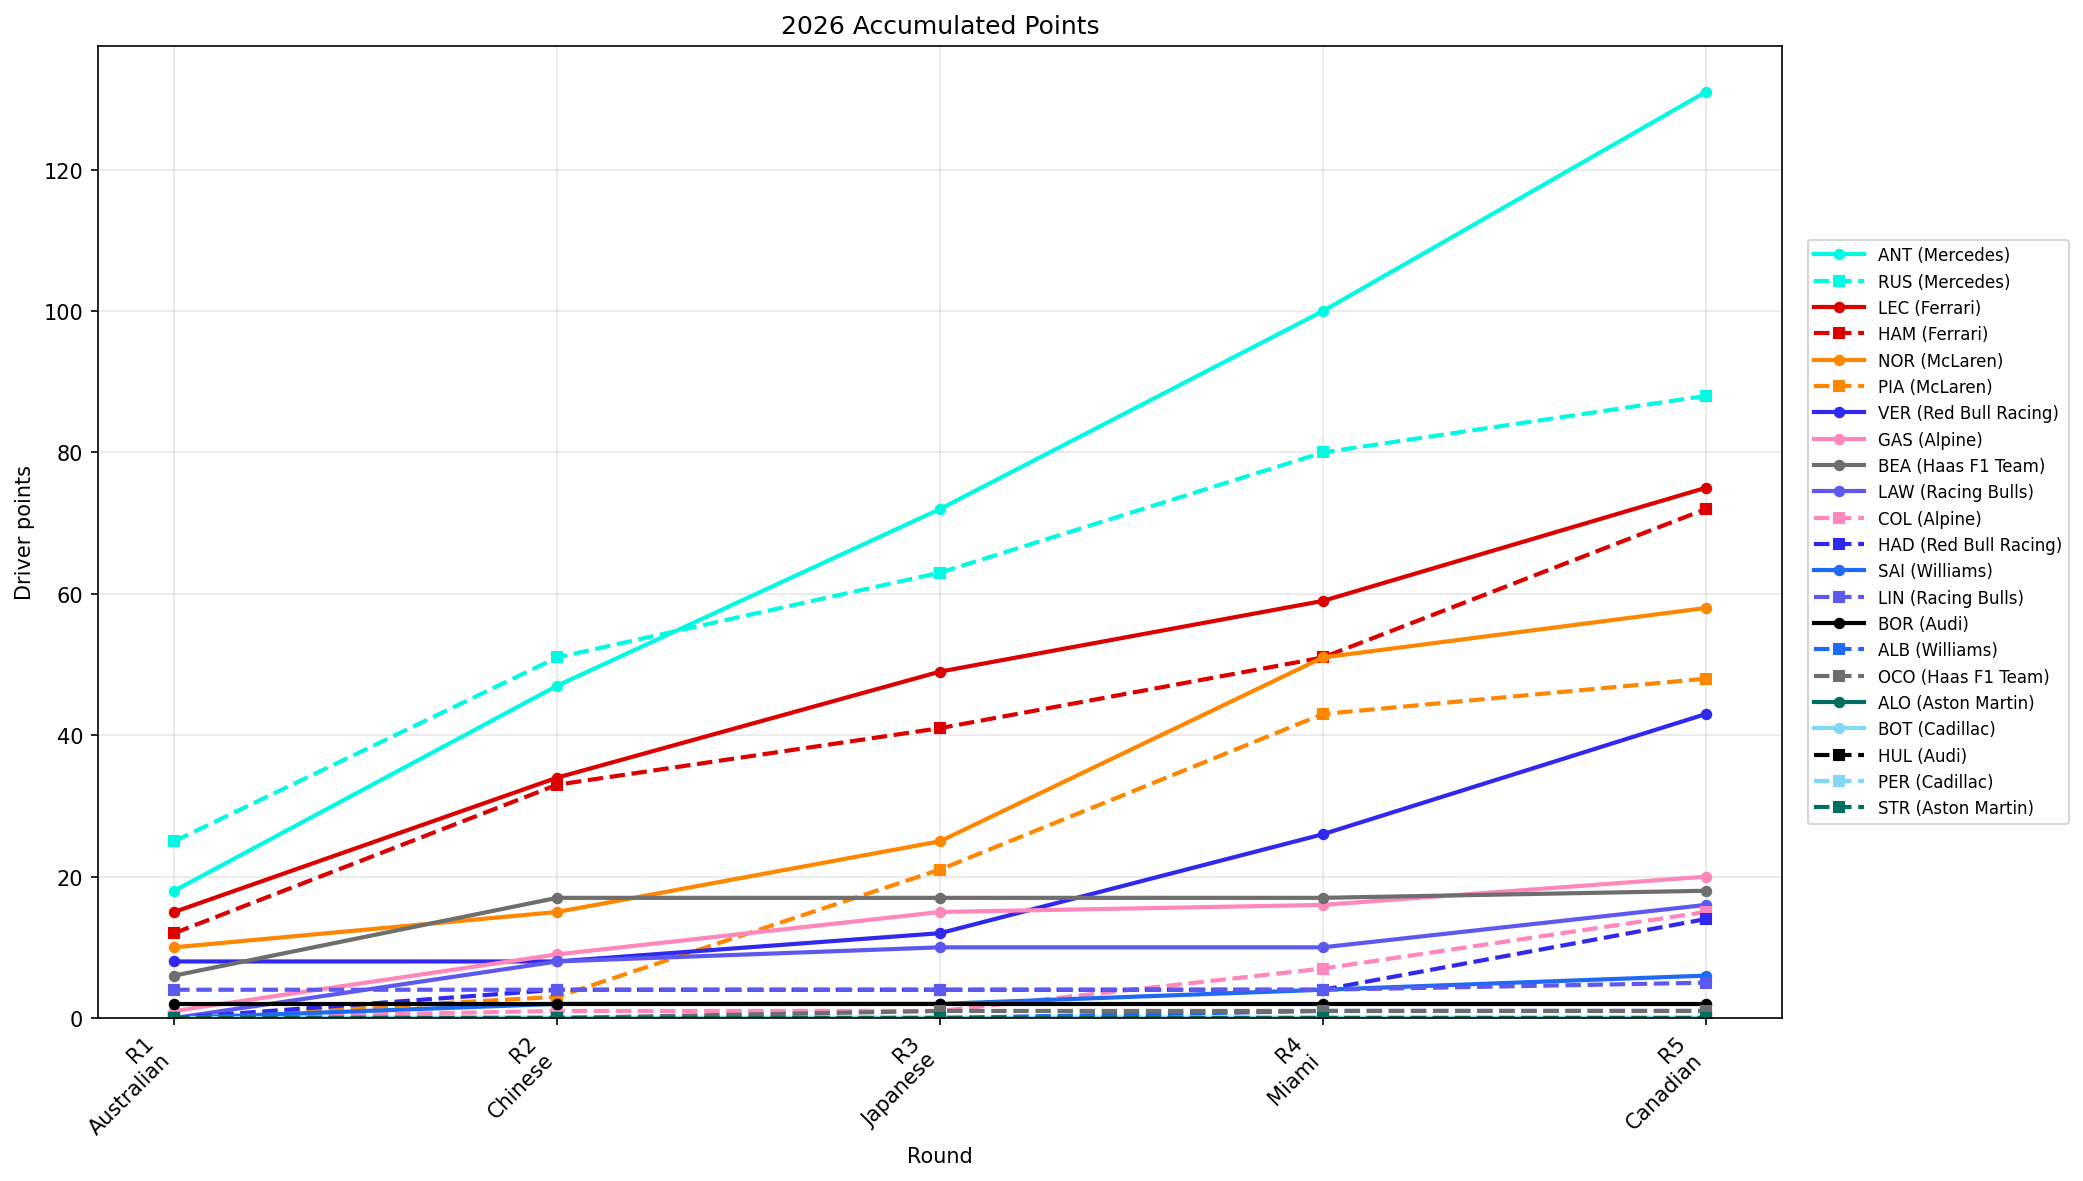
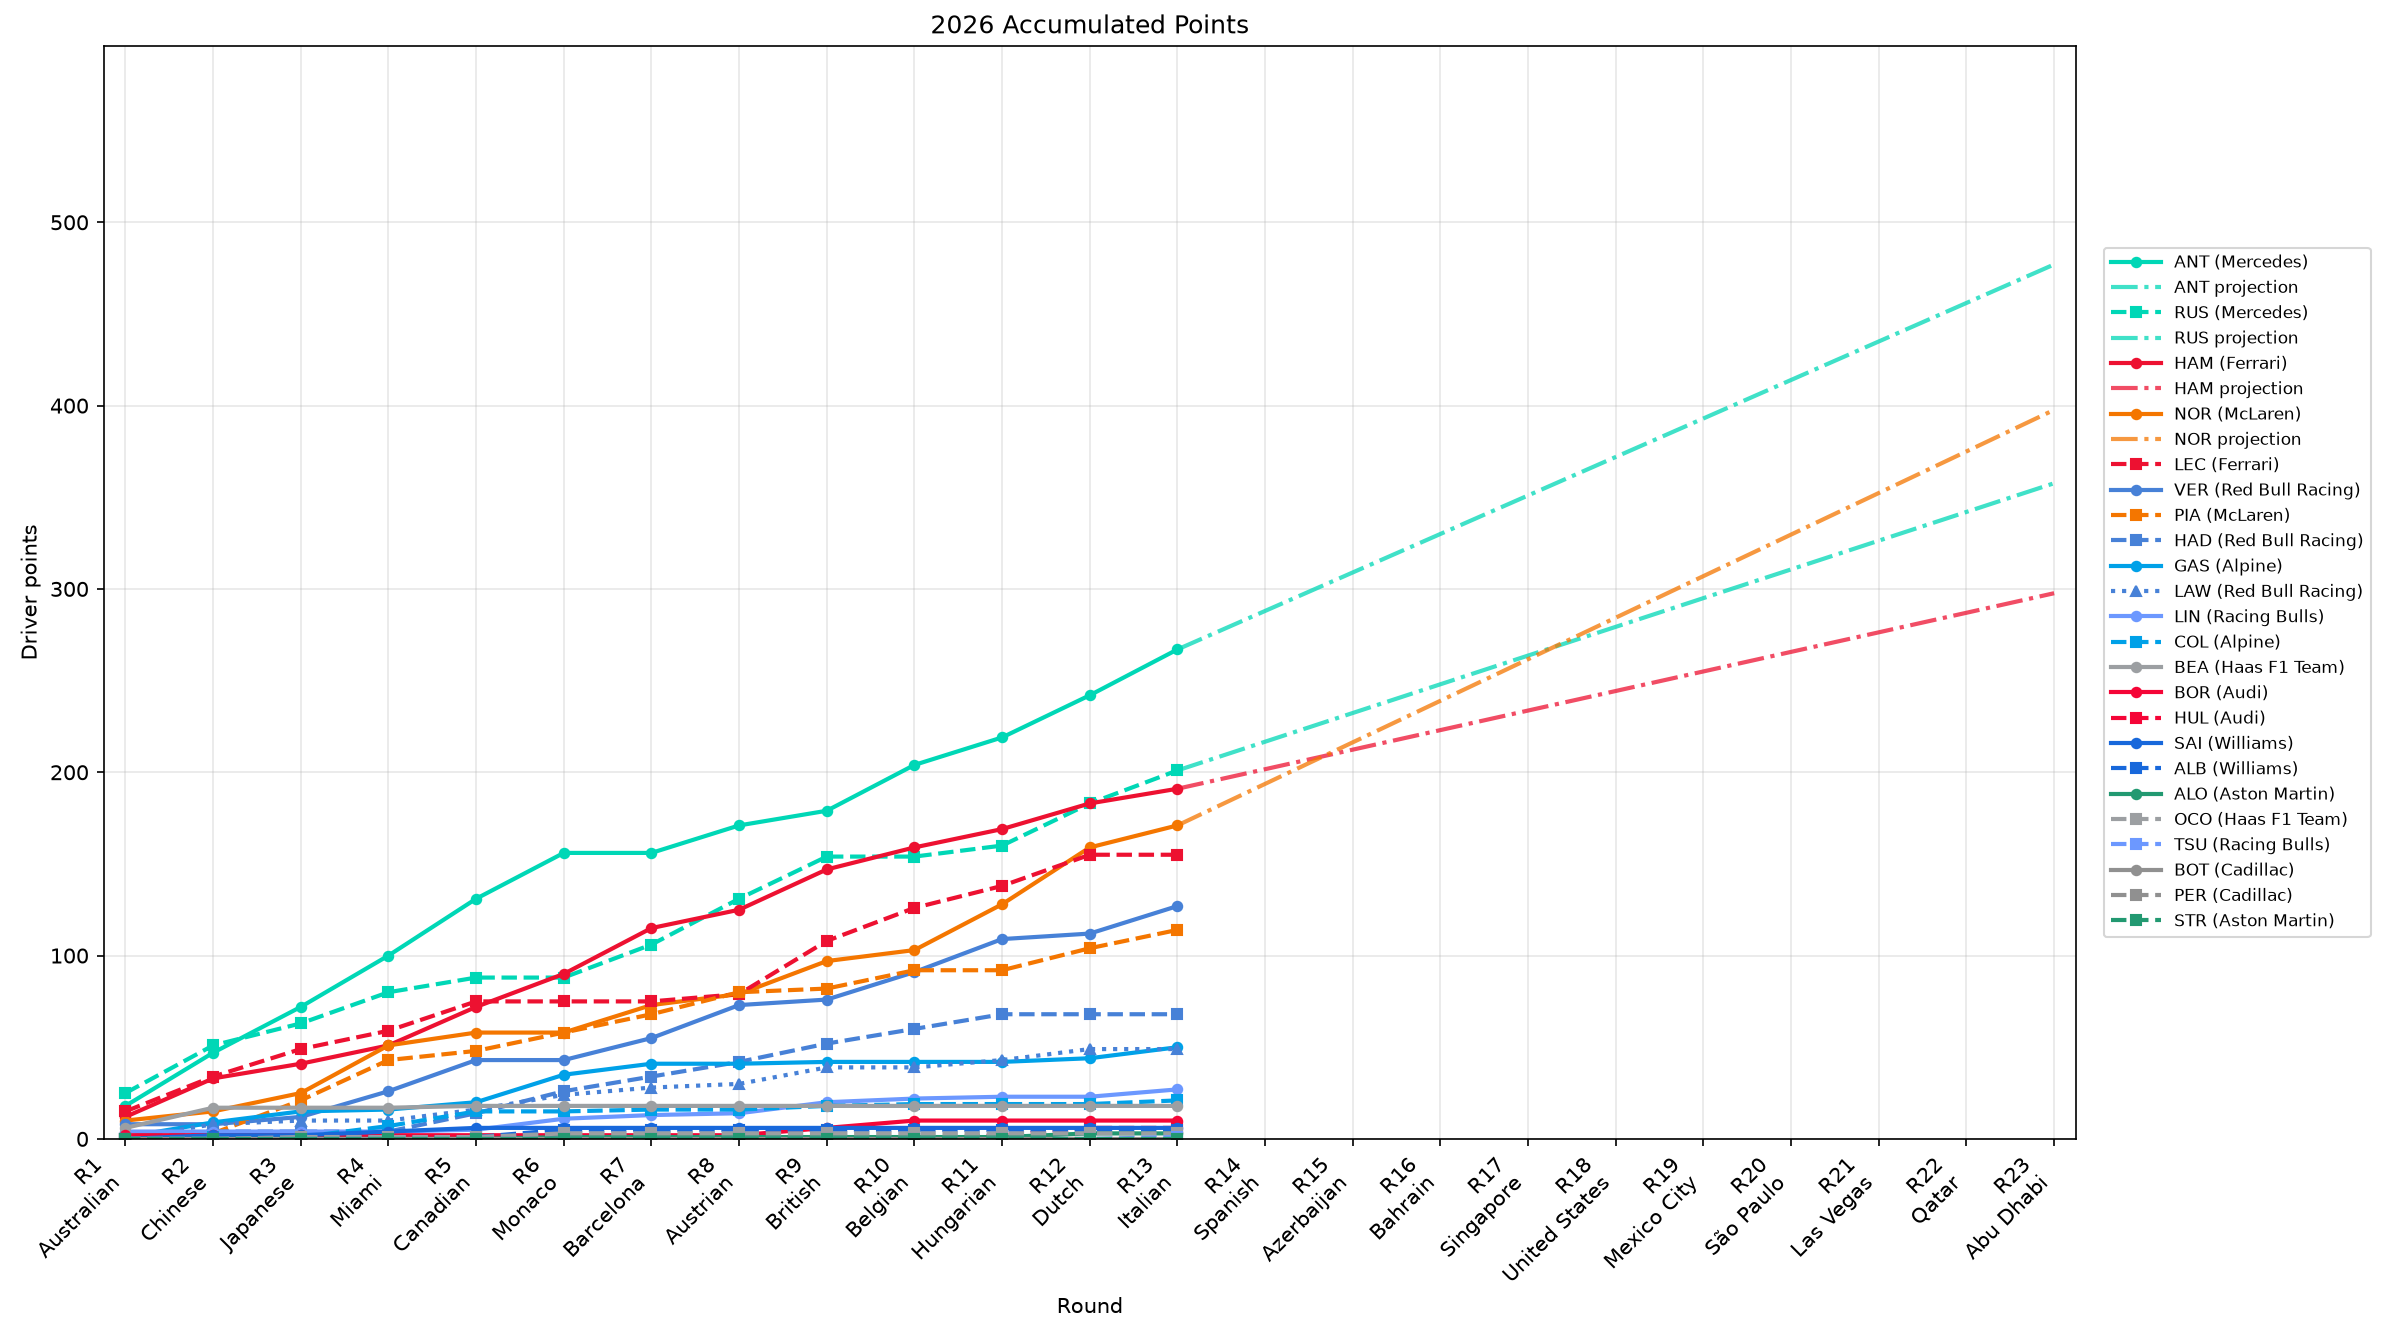
Update 2026 standings through R13

diff --git a/README.md b/README.md
@@ -5,11 +5,13 @@ Formula 1 standings analysis and plotting tools built on FastF1.
 ## Results
 
 The package turns public event results into accumulated driver and constructor
-championship progression, with optional Sprint inclusion and CSV exports.
+championship progression, with optional Sprint inclusion and CSV exports. The
+published examples contain actual 2026 results through R13; dash-dot extensions
+are illustrative projections based on recent rounds.
 
 <p>
-  <img src="docs/assets/points_progression_2026_drivers.png" alt="2026 accumulated driver points progression" width="48%">
-  <img src="docs/assets/points_progression_2026_teams.png" alt="2026 accumulated team points progression" width="48%">
+  <img src="docs/assets/points_progression_2026_drivers.png" alt="2026 accumulated driver points progression through R13, with illustrative projections" width="48%">
+  <img src="docs/assets/points_progression_2026_teams.png" alt="2026 accumulated constructor points progression through R13, with illustrative projections" width="48%">
 </p>
 
 ## Design
@@ -35,10 +37,10 @@ python -m pip install -e .
 
 python -m wostanding.script.points_progression \
   --year 2026 \
-  --race-range '[1, 10]'
+  --race-range '[1, 13]'
 ```
 
-This writes driver and team progression plots plus CSV exports under `temp/`.
+This writes driver and constructor progression plots plus CSV exports under `temp/`.
 Sprint points are included by default; pass `--exclude-sprints` to use race
 points only. Plot output defaults to SVG for crisp vector rendering; pass
 `--output-format png` when using the default output path, or pass an explicit
